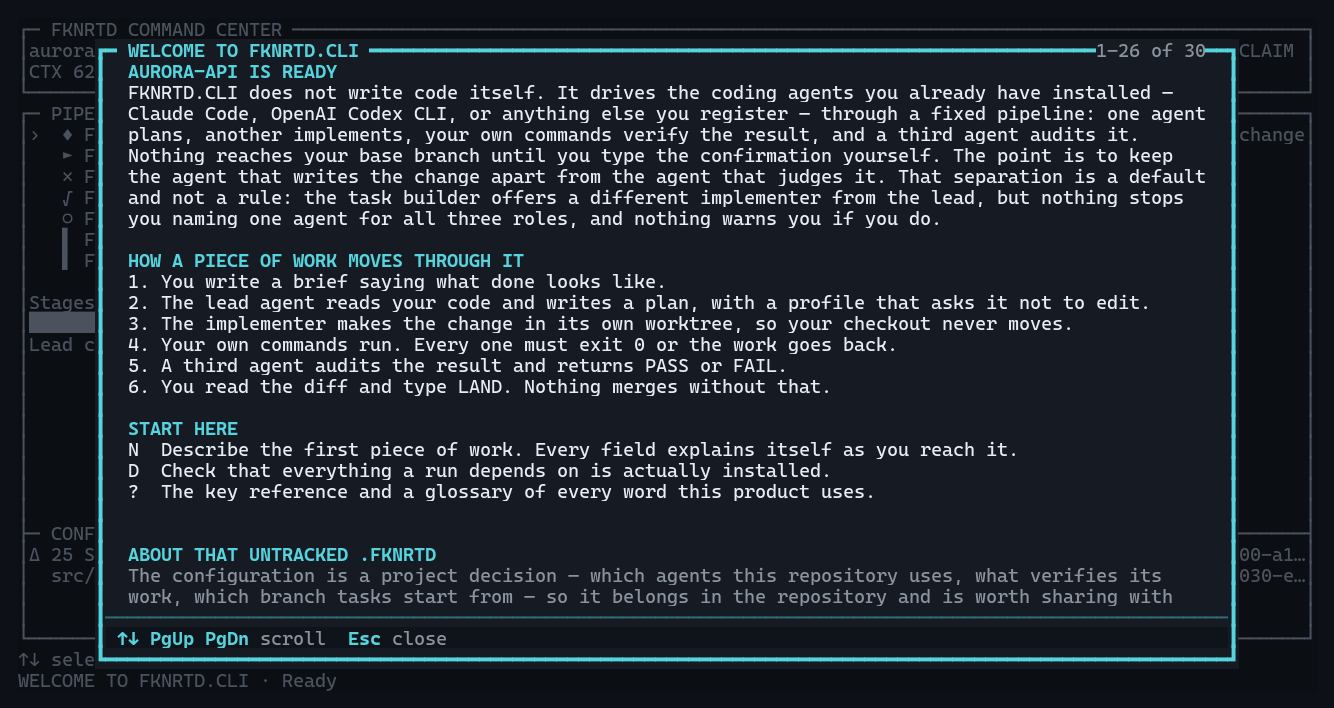
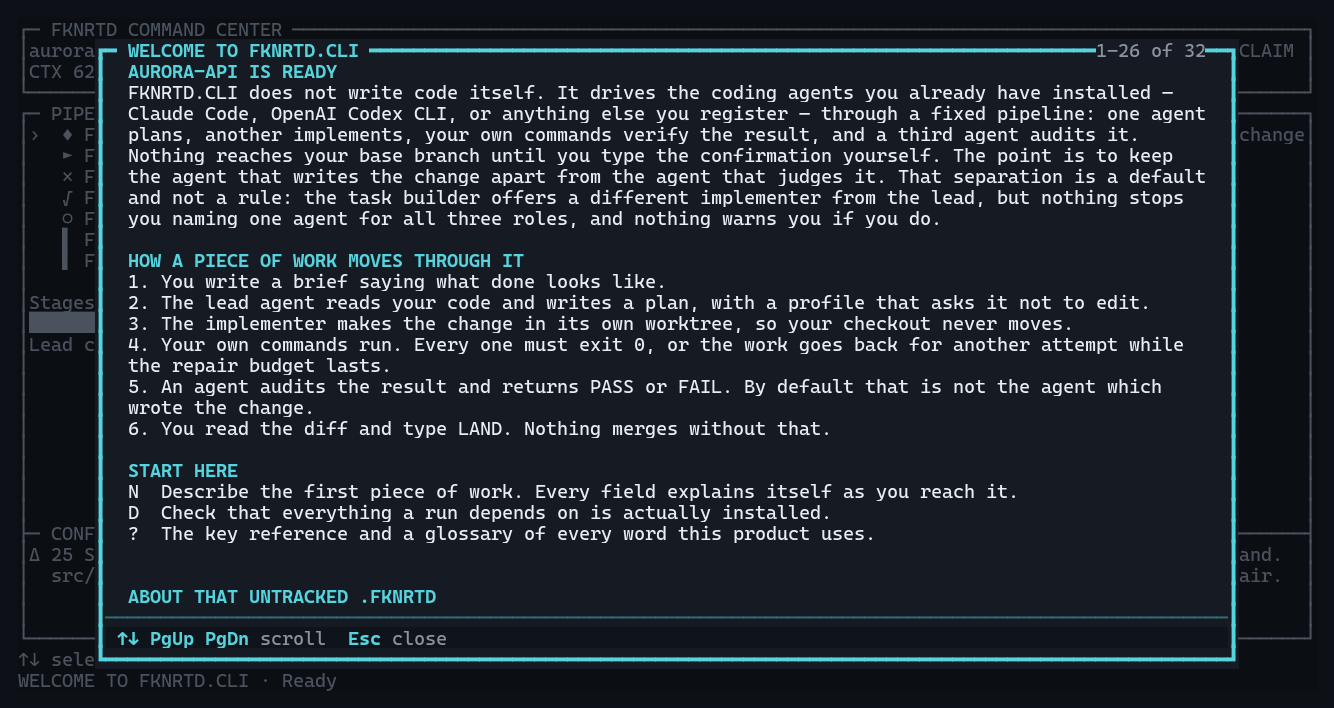
Fact-check the welcome panel, and the claim I nearly added to it
The first thing a new operator reads, and the last part of the reference nobody
had been through. Three of its sentences asserted things the workspace does not
guarantee.

  - "This workspace is standalone: it is not a Git repository" — standalone is a
    choice the setup form offers inside a repository, so that is wrong for
    everybody who chose it, and the advice that followed was to make it into
    something they already had.
  - "A third agent audits the result" — nothing requires the auditor to be a
    different agent from the implementer. It is a default the task builder
    offers, and the panel now says so.
  - "Every one must exit 0 or the work goes back" — only while the repair budget
    lasts, and with the budget at zero a failure is the end of the run.
  - "Nothing merges without that" — nothing merges at all in a standalone
    workspace. The step is mode-aware now, like step 3 next to it already was.

While fixing the first one I wrote "'fknrtd doctor' says which" — and then
checked, and it did not: a standalone workspace reported "Not required in a
standalone workspace" whether or not the folder was a repository. I nearly
shipped a false claim in the middle of correcting false claims. Doctor now
distinguishes them, which is worth having anyway, because the two cases have
completely different routes back to isolation: one is `fknrtd init -git -force`,
the other needs `git init` first. Both verified by running it.
[…]

Changed region(s): [[0.0922, 0.4661, 0.8913, 0.8701], [0.922, 0.7768, 0.9835, 0.839]]

diff --git a/fknrtd-portal.html b/fknrtd-portal.html
@@ -26,7 +26,7 @@ label{display:block;font-weight:600;margin-top:1.5rem}input{width:100%;min-width
 <nav aria-label=Sections><a href=#overview>Start here</a><a href=#pipeline>Eight-stage pipeline</a><a href=#screens>What it looks like</a><a href=#commands>Commands</a><a href=#keymap>Dashboard keys</a><a href=#glossary>Glossary</a><a href=#settings>Configuration</a><a href=#built>How this was built</a><a href=#state>Files on disk</a><a href=#exit-codes>Exit codes</a></nav>
 <div id=filter-controls hidden><label for=filter>Find a command or concept</label><input id=filter type=search placeholder="Try brief, audit, task…" autocomplete=off aria-controls="commands glossary"><button id=clear-filter type=button>Clear filter</button><p id=filter-status class=filter-status role=status aria-live=polite></p></div>
 <noscript><p>All entries are shown. Use your browser's Find command to search.</p></noscript></aside>
-<main id=main><section id=overview aria-labelledby=overview-title><p class=eyebrow>Operator guide / offline edition</p><h1 id=overview-title>Your agents.<br>Your final say.</h1><p class=edition>Version 1.0.0 &middot; Generated <time datetime="2026-09-17T11:36:20.0846192+00:00">2026-09-17 11:36 UTC</time></p><p class=intro>FKNRTD.CLI coordinates the coding CLIs you already use. You write a brief; a lead plans, an implementer changes the code, your commands verify it, and an auditor reviews it. You decide when it lands.</p>
+<main id=main><section id=overview aria-labelledby=overview-title><p class=eyebrow>Operator guide / offline edition</p><h1 id=overview-title>Your agents.<br>Your final say.</h1><p class=edition>Version 1.0.0 &middot; Generated <time datetime="2026-09-17T11:38:53.8397181+00:00">2026-09-17 11:38 UTC</time></p><p class=intro>FKNRTD.CLI coordinates the coding CLIs you already use. You write a brief; a lead plans, an implementer changes the code, your commands verify it, and an auditor reviews it. You decide when it lands.</p>
 <h2>Know what you are authorizing</h2>
 <p>In Git mode, each task works on its own branch in a separate worktree. The default lead and auditor profiles are read-only; the implementer profile permits edits. Configured verification commands must pass, and the auditor must give an explicit PASS verdict, before the task can become ready to land. Merging still needs your confirmation.</p>
 <p>These controls depend on the agent profiles and verification commands you configure. Review them before running an unfamiliar CLI. A worktree isolates a checkout, not the whole machine, and your build commands run with your permissions.</p>

diff --git a/tests/FKNRTD.SelfTest/Program.cs b/tests/FKNRTD.SelfTest/Program.cs
@@ -149,7 +149,8 @@ var tests = new (string Name, Func<Task> Run)[]
     ("A confirmation finishes its sentences at any width", TestConfirmationFinishesItsSentencesAsync),
     ("Doctor says where it got to", TestDoctorReadsWellAsync),
     ("Corrected claims stay corrected", TestCorrectedClaimsStayCorrectedAsync),
-    ("The quieter commands work", TestTheQuieterCommandsWorkAsync)
+    ("The quieter commands work", TestTheQuieterCommandsWorkAsync),
+    ("The welcome panel tells the truth", TestWelcomeIsTrueAsync)
 };
 
 var failures = new List<string>();
@@ -3942,4 +3943,47 @@ static async Task TestTheQuieterCommandsWorkAsync()
         True(!quiet.ToString().Contains("now unknown", StringComparison.Ordinal),
             "A complete report says nothing about dropping anything");
     }).ConfigureAwait(false);
+}
+
+/// <summary>
+/// The welcome panel, which is the first thing a new operator reads and the last part of the
+/// reference nobody had fact-checked. Three of its sentences asserted things the workspace does not
+/// guarantee.
+/// </summary>
+static Task TestWelcomeIsTrueAsync()
+{
+    var git = Prose(Scenes.Render("welcome", 118, 40, colour: false));
+    var standalone = Prose(Scenes.Render("welcome-standalone", 118, 40, colour: false));
+
+    // Standalone is a choice the setup form offers inside a repository, so the panel must not
+    // assert that a standalone workspace is not one - and must not then advise making it one.
+    True(!standalone.Contains("it is not a Git repository", StringComparison.Ordinal),
+        "The standalone welcome does not assert why the workspace is standalone");
+    True(standalone.Contains("or because standalone was chosen", StringComparison.Ordinal),
+        "It names both reasons");
+    True(standalone.Contains("commit anything you care about", StringComparison.Ordinal),
+        "and says what to do either way");
+
+    // Nothing requires the auditor to be a different agent from the implementer, so the summary
+    // cannot promise a third one.
+    foreach (var frame in new[] { git, standalone })
+    {
+        True(!frame.Contains("A third agent audits", StringComparison.Ordinal),
+            "The summary does not promise three distinct agents");
+        True(frame.Contains("By default that is not the agent which wrote the change",
+                StringComparison.Ordinal),
+            "It says the separation is a default");
+        True(frame.Contains("while the repair budget lasts", StringComparison.Ordinal),
+            "and that failed work only goes back while there is budget for it");
+    }
+
+    // The last step is about merging in one mode and not the other.
+    True(git.Contains("Nothing merges without that", StringComparison.Ordinal),
+        "A Git workspace is told nothing merges without LAND");
+    True(standalone.Contains("Nothing is recorded as finished without that", StringComparison.Ordinal),
+        "A standalone workspace is told what LAND does there instead");
+    True(!standalone.Contains("Nothing merges without that", StringComparison.Ordinal),
+        "and is not told about a merge that will not happen");
+
+    return Task.CompletedTask;
 }

diff --git a/src/FKNRTD.Cli/Dashboard/Reference.cs b/src/FKNRTD.Cli/Dashboard/Reference.cs
@@ -860,9 +860,13 @@ internal static class Reference
                               (config.Mode == WorkspaceMode.Git
                                   ? " in its own worktree, so your checkout never moves."
                                   : " directly in this folder.")),
-            new InfoParagraph("4. Your own commands run. Every one must exit 0 or the work goes back."),
-            new InfoParagraph("5. A third agent audits the result and returns PASS or FAIL."),
-            new InfoParagraph("6. You read the diff and type LAND. Nothing merges without that."),
+            new InfoParagraph("4. Your own commands run. Every one must exit 0, or the work goes " +
+                              "back for another attempt while the repair budget lasts."),
+            new InfoParagraph("5. An agent audits the result and returns PASS or FAIL. By default " +
+                              "that is not the agent which wrote the change."),
+            new InfoParagraph(config.Mode == WorkspaceMode.Git
+                ? "6. You read the diff and type LAND. Nothing merges without that."
+                : "6. You read the diff and type LAND. Nothing is recorded as finished without that."),
             new InfoHeading("Start here"),
             new InfoLine("N", "Describe the first piece of work. Every field explains itself as you reach it."),
             new InfoLine("D", "Check that everything a run depends on is actually installed."),
@@ -873,9 +877,11 @@ internal static class Reference
         if (config.Mode == WorkspaceMode.Standalone)
         {
             blocks.Add(new InfoParagraph(
-                "This workspace is standalone: it is not a Git repository, so agents edit this folder " +
-                "in place and there is nothing to roll back to. Making it a repository first is " +
-                "strictly safer.",
+                "This workspace is standalone, so agents edit this folder in place and there is " +
+                "nothing to roll back to. That is either because the folder is not a Git repository " +
+                "or because standalone was chosen when it was set up; 'fknrtd doctor' says which. A " +
+                "Git-backed workspace gives every task its own branch and its own checkout, and is " +
+                "strictly safer. Until then, commit anything you care about before running a task.",
                 Theme.Amber));
         }
         else if (Glossary.Find("what-to-commit") is { } committing)

diff --git a/tests/FKNRTD.SelfTest/Scenes.cs b/tests/FKNRTD.SelfTest/Scenes.cs
@@ -13,7 +13,7 @@ internal static class Scenes
     public static readonly string[] Names =
     [
         "overview", "empty", "wizard", "wizard-brief", "wizard-review", "wizard-auditor", "message", "land", "land-landed", "remove", "remove-landed",
-        "help", "help-search", "inspect", "agents", "agents-empty", "agents-nothing-installed", "agents-remove", "doctor", "welcome", "setup", "setup-no-git", "setup-no-repo", "palette", "palette-search", "logs", "logs-plain", "logs-json", "agent", "events", "events-empty", "coordination", "settings", "settings-reference", "settings-edit", "settings-number", "usage", "usage-missing", "find", "find-search", "diff", "diff-empty", "diff-standalone", "prompts", "standalone", "standalone-inspect", "inspect-missing-agent", "quit-while-running"
+        "help", "help-search", "inspect", "agents", "agents-empty", "agents-nothing-installed", "agents-remove", "doctor", "welcome", "welcome-standalone", "setup", "setup-no-git", "setup-no-repo", "palette", "palette-search", "logs", "logs-plain", "logs-json", "agent", "events", "events-empty", "coordination", "settings", "settings-reference", "settings-edit", "settings-number", "usage", "usage-missing", "find", "find-search", "diff", "diff-empty", "diff-standalone", "prompts", "standalone", "standalone-inspect", "inspect-missing-agent", "quit-while-running"
     ];
 
     /// <summary>
@@ -228,6 +228,14 @@ internal static class Scenes
                         Detail = "not installed. Usage figures for Claude will stay blank."
                     }
                 ]);
+            case "welcome-standalone":
+                // The welcome panel's standalone branch, which said the folder is not a Git
+                // repository - true only when standalone was forced rather than chosen.
+                return Reference.Welcome(config with
+                {
+                    Mode = WorkspaceMode.Standalone,
+                    DefaultBaseRef = string.Empty
+                });
             case "welcome":
                 return Reference.Welcome(config);
             case "setup-no-git":

diff --git a/src/FKNRTD.Core/Services/DoctorService.cs b/src/FKNRTD.Core/Services/DoctorService.cs
@@ -85,11 +85,20 @@ public sealed class DoctorService
             Name = "Git repository",
             Passed = isRepository || !gitRequired,
             Required = gitRequired,
-            Detail = isRepository
-                ? _store.Paths.Root
-                : gitRequired
-                    ? $"{_store.Paths.Root} is not a Git repository"
-                    : "Not required in a standalone workspace"
+            // A standalone workspace is either a choice made inside a repository or the only option
+            // there was, and those have completely different routes back to isolation. Reporting
+            // "not required" for both told an operator nothing about which one they were in.
+            Detail = gitRequired
+                ? isRepository
+                    ? _store.Paths.Root
+                    : $"{_store.Paths.Root} is not a Git repository"
+                : isRepository
+                    ? "Not required here, but this folder is a Git repository — so a Git-backed " +
+                      "workspace, with a branch and a checkout per task, is available with " +
+                      "'fknrtd init -git -force'"
+                    : "Not required in a standalone workspace, and this folder is not a Git " +
+                      "repository. 'git init' here, then 'fknrtd init -git -force', would give " +
+                      "every task its own branch and checkout"
         });
 
         foreach (var agent in config?.Agents ?? [])
